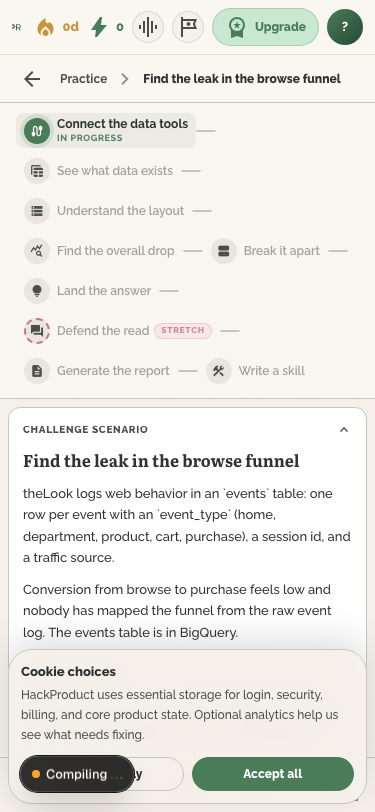
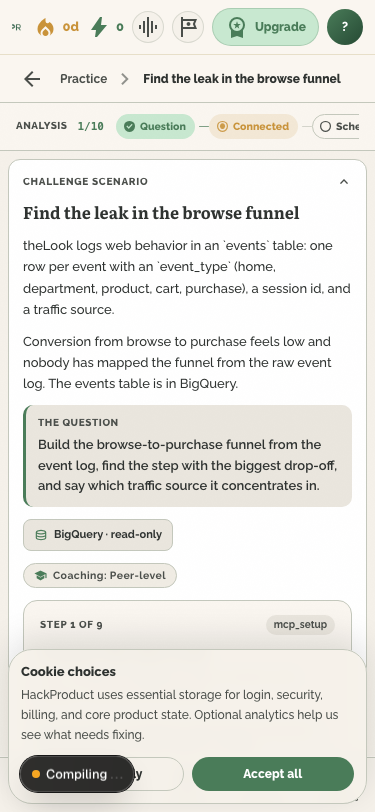
feat(cc-analytics): artifact spine replaces the stepper header
The 48px milestone strip (Question → Connected → Schema → ... → Skill →
Grade) is now the workspace header: derived from live signals, horizontal
no-wrap scroll (a 10-step adaptive arc can no longer steal terminal
height), reduced-motion-aware amber pulse on the active milestone,
role=progressbar with a done/total count. Adaptive rows render with dashed
borders and Regroup/Stretch badge pills; every chip carries the full step
title as its aria-label. E2E assertions migrated from stepper text to
progressbar + aria-labels in the same commit — all 3 real-sandbox tests
green.

CC Analytics elevation, increment 4.

diff --git a/src/components/v2/mediums/ArtifactSpineStrip.tsx b/src/components/v2/mediums/ArtifactSpineStrip.tsx
@@ -1,0 +1,152 @@
+'use client'
+
+// ArtifactSpineStrip — the session's deliverable, as a compact horizontal strip
+// in the workspace header. Each milestone fills as the session runs (derived
+// from live signals via deriveArtifactRows). It answers "what have I captured,
+// what's left" at a glance without competing with the terminal for space, and
+// it never wraps — a long adaptive arc scrolls horizontally inside 48px.
+// The two accent rows (Connected = the BigQuery tools/MCP, Skill = the
+// reusable play) read a shade louder; adaptive Regroup/Stretch rows carry
+// their badge and a dashed border, mirroring the arc's injected steps.
+
+import type { ArtifactRow } from './types'
+
+interface ArtifactSpineStripProps {
+  rows: ArtifactRow[]
+  done: number
+  total: number
+}
+
+export function ArtifactSpineStrip({ rows, done, total }: ArtifactSpineStripProps) {
+  return (
+    <div
+      className="flex items-center gap-1.5 min-w-0 w-full"
+      role="progressbar"
+      aria-valuenow={done}
+      aria-valuemin={0}
+      aria-valuemax={total}
+      aria-label={`Analysis progress: ${done} of ${total} milestones`}
+    >
+      <span
+        className="font-label font-bold uppercase tracking-wider text-on-surface-variant shrink-0 mr-1"
+        style={{ fontSize: 10 }}
+      >
+        Analysis
+      </span>
+      <span
+        className="font-mono font-bold text-primary shrink-0 mr-1.5"
+        style={{ fontSize: 11 }}
+      >
+        {done}/{total}
+      </span>
+
+      <div className="flex items-center gap-1 min-w-0 overflow-x-auto no-scrollbar">
+        {rows.map((row, i) => (
+          <div key={`${row.key}-${row.stepId ?? i}`} className="flex items-center shrink-0">
+            {i > 0 && (
+              <span
+                className="shrink-0"
+                style={{
+                  width: 10,
+                  height: 1.5,
+                  borderRadius: 99,
+                  background:
+                    rows[i - 1].state === 'filled' && row.state !== 'pending'
+                      ? 'var(--color-primary)'
+                      : 'var(--color-outline-variant)',
+                  opacity: 0.7,
+                }}
+              />
+            )}
+            <Milestone row={row} />
+          </div>
+        ))}
+      </div>
+    </div>
+  )
+}
+
+function Milestone({ row }: { row: ArtifactRow }) {
+  const filled = row.state === 'filled'
+  const active = row.state === 'active'
+  const accent = row.accent
+
+  // Filled: primary (or tertiary accent for the differentiators). Active:
+  // amber pulse. Pending: quiet outline. Adaptive rows keep a dashed border
+  // so an injected step reads as inserted, not pre-planned.
+  const color = filled
+    ? accent
+      ? 'var(--color-tertiary)'
+      : 'var(--color-primary)'
+    : active
+      ? '#c9933a'
+      : 'var(--color-on-surface-variant)'
+
+  const bg = filled
+    ? accent
+      ? 'var(--color-tertiary-container)'
+      : 'var(--color-primary-fixed)'
+    : active
+      ? 'rgba(201,147,58,0.14)'
+      : 'transparent'
+
+  const icon = filled
+    ? 'check_circle'
+    : active
+      ? 'radio_button_checked'
+      : 'radio_button_unchecked'
+
+  const border = row.badge
+    ? `1px dashed ${filled || active ? color : 'var(--color-outline-variant)'}`
+    : filled || active
+      ? '1px solid transparent'
+      : '1px solid var(--color-outline-variant)'
+
+  return (
+    <span
+      className="inline-flex items-center gap-1 rounded-full shrink-0"
+      title={row.value ? `${row.ariaTitle ?? row.label}: ${row.value}` : row.ariaTitle ?? row.label}
+      aria-label={row.ariaTitle ?? row.label}
+      style={{
+        padding: '3px 8px 3px 6px',
+        background: bg,
+        border,
+      }}
+    >
+      <span
+        className={`material-symbols-outlined${active ? ' cc-artifact-pulse' : ''}`}
+        style={{
+          fontSize: 13,
+          color,
+          fontVariationSettings: `'FILL' ${filled || active ? 1 : 0}, 'wght' 500`,
+        }}
+      >
+        {icon}
+      </span>
+      <span
+        className="font-label font-bold whitespace-nowrap"
+        style={{ fontSize: 10.5, color }}
+      >
+        {row.label}
+      </span>
+      {row.badge && (
+        <span
+          className="font-label whitespace-nowrap uppercase"
+          style={{
+            fontSize: 8,
+            fontWeight: 800,
+            letterSpacing: '0.08em',
+            color,
+            border: `1px solid ${color}`,
+            borderRadius: 999,
+            padding: '0 4px',
+            lineHeight: 1.5,
+            opacity: 0.85,
+          }}
+        >
+          {row.badge}
+        </span>
+      )}
+    </span>
+  )
+}

diff --git a/src/components/v2/mediums/ClaudeCodeAnalyticsMedium.tsx b/src/components/v2/mediums/ClaudeCodeAnalyticsMedium.tsx
@@ -1,7 +1,8 @@
 'use client'
 
-import { useState, useEffect, useRef, useCallback } from 'react'
-import { SubProblemStepper } from './SubProblemStepper'
+import { useState, useEffect, useRef, useCallback, useMemo } from 'react'
+import { ArtifactSpineStrip } from './ArtifactSpineStrip'
+import { deriveArtifactRows, artifactProgress } from './analyticsArtifact'
 import { AnalyticsObjectiveCard } from './AnalyticsObjectiveCard'
 import { AnalyticsConnectionStrip } from './AnalyticsConnectionStrip'
 import { UsageMeter } from './UsageMeter'
@@ -135,6 +136,7 @@ export function ClaudeCodeAnalyticsMedium({ challenge, attemptId, scenario }: Me
     dragCleanupRef.current = onMouseUp
   }, [])
   useEffect(() => () => { dragCleanupRef.current?.() }, [])
+
   const [sessionId, setSessionId] = useState<string | null>(null)
   const [sessionError, setSessionError] = useState<string | null>(null)
   // Free quota exhausted (HTTP 402). Opens the unified PaywallModal (analytics
@@ -187,6 +189,22 @@ export function ClaudeCodeAnalyticsMedium({ challenge, attemptId, scenario }: Me
   const [hatchOpen, setHatchOpen] = useState(false)
 
   const activeSubProblem = subProblems[activeSubProblemIdx] ?? null
+
+  // ── Artifact spine: the deliverable-as-progress, derived from live signals
+  // (no new state). Recomputes when the arc changes, so injected adaptive
+  // steps appear in the strip the moment planBranch inserts them.
+  const artifactRows = useMemo(() => deriveArtifactRows({
+    scenarioQuestion: scenario?.question ?? null,
+    mcpConnected,
+    replRunning,
+    markedFindings,
+    reportPath,
+    skillsWritten,
+    dimensions,
+    subProblems,
+    activeStepId: activeSubProblem?.id ?? null,
+  }), [scenario?.question, mcpConnected, replRunning, markedFindings, reportPath, skillsWritten, dimensions, subProblems, activeSubProblem?.id])
+  const { done: artifactDone, total: artifactTotal } = useMemo(() => artifactProgress(artifactRows), [artifactRows])
 
   // Poll /state for live AI usage (spend vs the per-session budget cap). The hard
   // cap is enforced gateway-side; this just visualizes it. Skipped in dev stub.
@@ -861,33 +879,16 @@ export function ClaudeCodeAnalyticsMedium({ challenge, attemptId, scenario }: Me
         height: '100%', minHeight: 0, overflow: 'hidden',
         background: 'var(--color-background)',
       }}>
-        {/* Sub-problem stepper */}
+        {/* Artifact spine — the deliverable as progress. 48px, never wraps;
+            a long adaptive arc scrolls horizontally instead of stealing
+            terminal height. */}
         <div style={{
-          flexShrink: 0, padding: '10px 16px',
+          flexShrink: 0, height: 48, padding: '0 16px',
+          display: 'flex', alignItems: 'center',
           borderBottom: '1px solid var(--color-outline-variant)',
           background: 'var(--color-surface)',
-          overflowX: 'auto',
         }}>
-          {subProblems.length > 0 ? (
-            <SubProblemStepper
-              subProblems={subProblems}
-              activeIdx={activeSubProblemIdx}
-              completedIds={completedIds}
-              onStepClick={idx => {
-                if (completedIds.has(subProblems[idx]?.id ?? '')) {
-                  setActiveSubProblemIdx(idx)
-                }
-              }}
-            />
-          ) : (
-            <div style={{ height: 26, display: 'flex', alignItems: 'center' }}>
-              <div style={{
-                width: 120, height: 8,
-                background: 'var(--color-surface-container-high)',
-                borderRadius: 99, animation: 'pulse 1.5s ease infinite',
-              }} />
-            </div>
-          )}
+          <ArtifactSpineStrip rows={artifactRows} done={artifactDone} total={artifactTotal} />
         </div>
 
         {/* Body split. position: relative so the floating Hatch bubble anchors

diff --git a/e2e/cc-analytics-adaptive.spec.ts b/e2e/cc-analytics-adaptive.spec.ts
@@ -150,7 +150,10 @@ test.describe('adaptive CC analytics arcs (real sandboxes)', () => {
     expect(ids).not.toContain('map_the_data')
 
     // The stepper renders the arc; the scaffolded teaching note is visible.
-    await expect(page.getByText('See what data exists')).toBeVisible({ timeout: 30_000 })
+    // The artifact spine renders the arc as milestones; the schema milestone
+    // carries the step title as its aria-label.
+    await expect(page.getByRole('progressbar')).toBeVisible({ timeout: 30_000 })
+    await expect(page.getByLabel('See what data exists')).toBeVisible()
     await expect(page.getByText(/Click Start sandbox to spin up/i)).toBeVisible()
   })
 
@@ -173,7 +176,7 @@ test.describe('adaptive CC analytics arcs (real sandboxes)', () => {
     expect(ids).not.toContain('map_the_data')
     expect(ids).toContain('stakeholder_tension')
 
-    await expect(page.getByText('Defend the read')).toBeVisible({ timeout: 30_000 })
+    await expect(page.getByLabel('Defend the read')).toBeVisible({ timeout: 30_000 })
   })
 
   test('adaptive state (scaffold injection) persists and survives reconnect', async ({ page }) => {

diff --git a/e2e/adaptive-ui-shots.spec.ts b/e2e/adaptive-ui-shots.spec.ts
@@ -87,7 +87,7 @@ test.describe('adaptive UI screenshots', () => {
     sessionId = data.session_id
 
     // The stretch step carries the F1 badge — proof the adaptive arc rendered.
-    await expect(page.getByText('Defend the read')).toBeVisible({ timeout: 30_000 })
+    await expect(page.getByLabel('Defend the read')).toBeVisible({ timeout: 30_000 })
     await expect(page.getByText('Stretch', { exact: true }).first()).toBeVisible()
     // F3: the coaching register chip shows the open register in product language.
     await expect(page.getByText('Coaching: Peer-level')).toBeVisible()

diff --git a/src/app/globals.css b/src/app/globals.css
@@ -685,3 +685,13 @@ body::before {
 .scrollbar-none::-webkit-scrollbar {
   display: none;
 }
+
+/* Artifact spine — active milestone pulse (reduced-motion aware) */
+@keyframes cc-artifact-pulse {
+  0%, 100% { opacity: 1; }
+  50% { opacity: 0.45; }
+}
+.cc-artifact-pulse { animation: cc-artifact-pulse 1.6s ease-in-out infinite; }
+@media (prefers-reduced-motion: reduce) {
+  .cc-artifact-pulse { animation: none; }
+}
